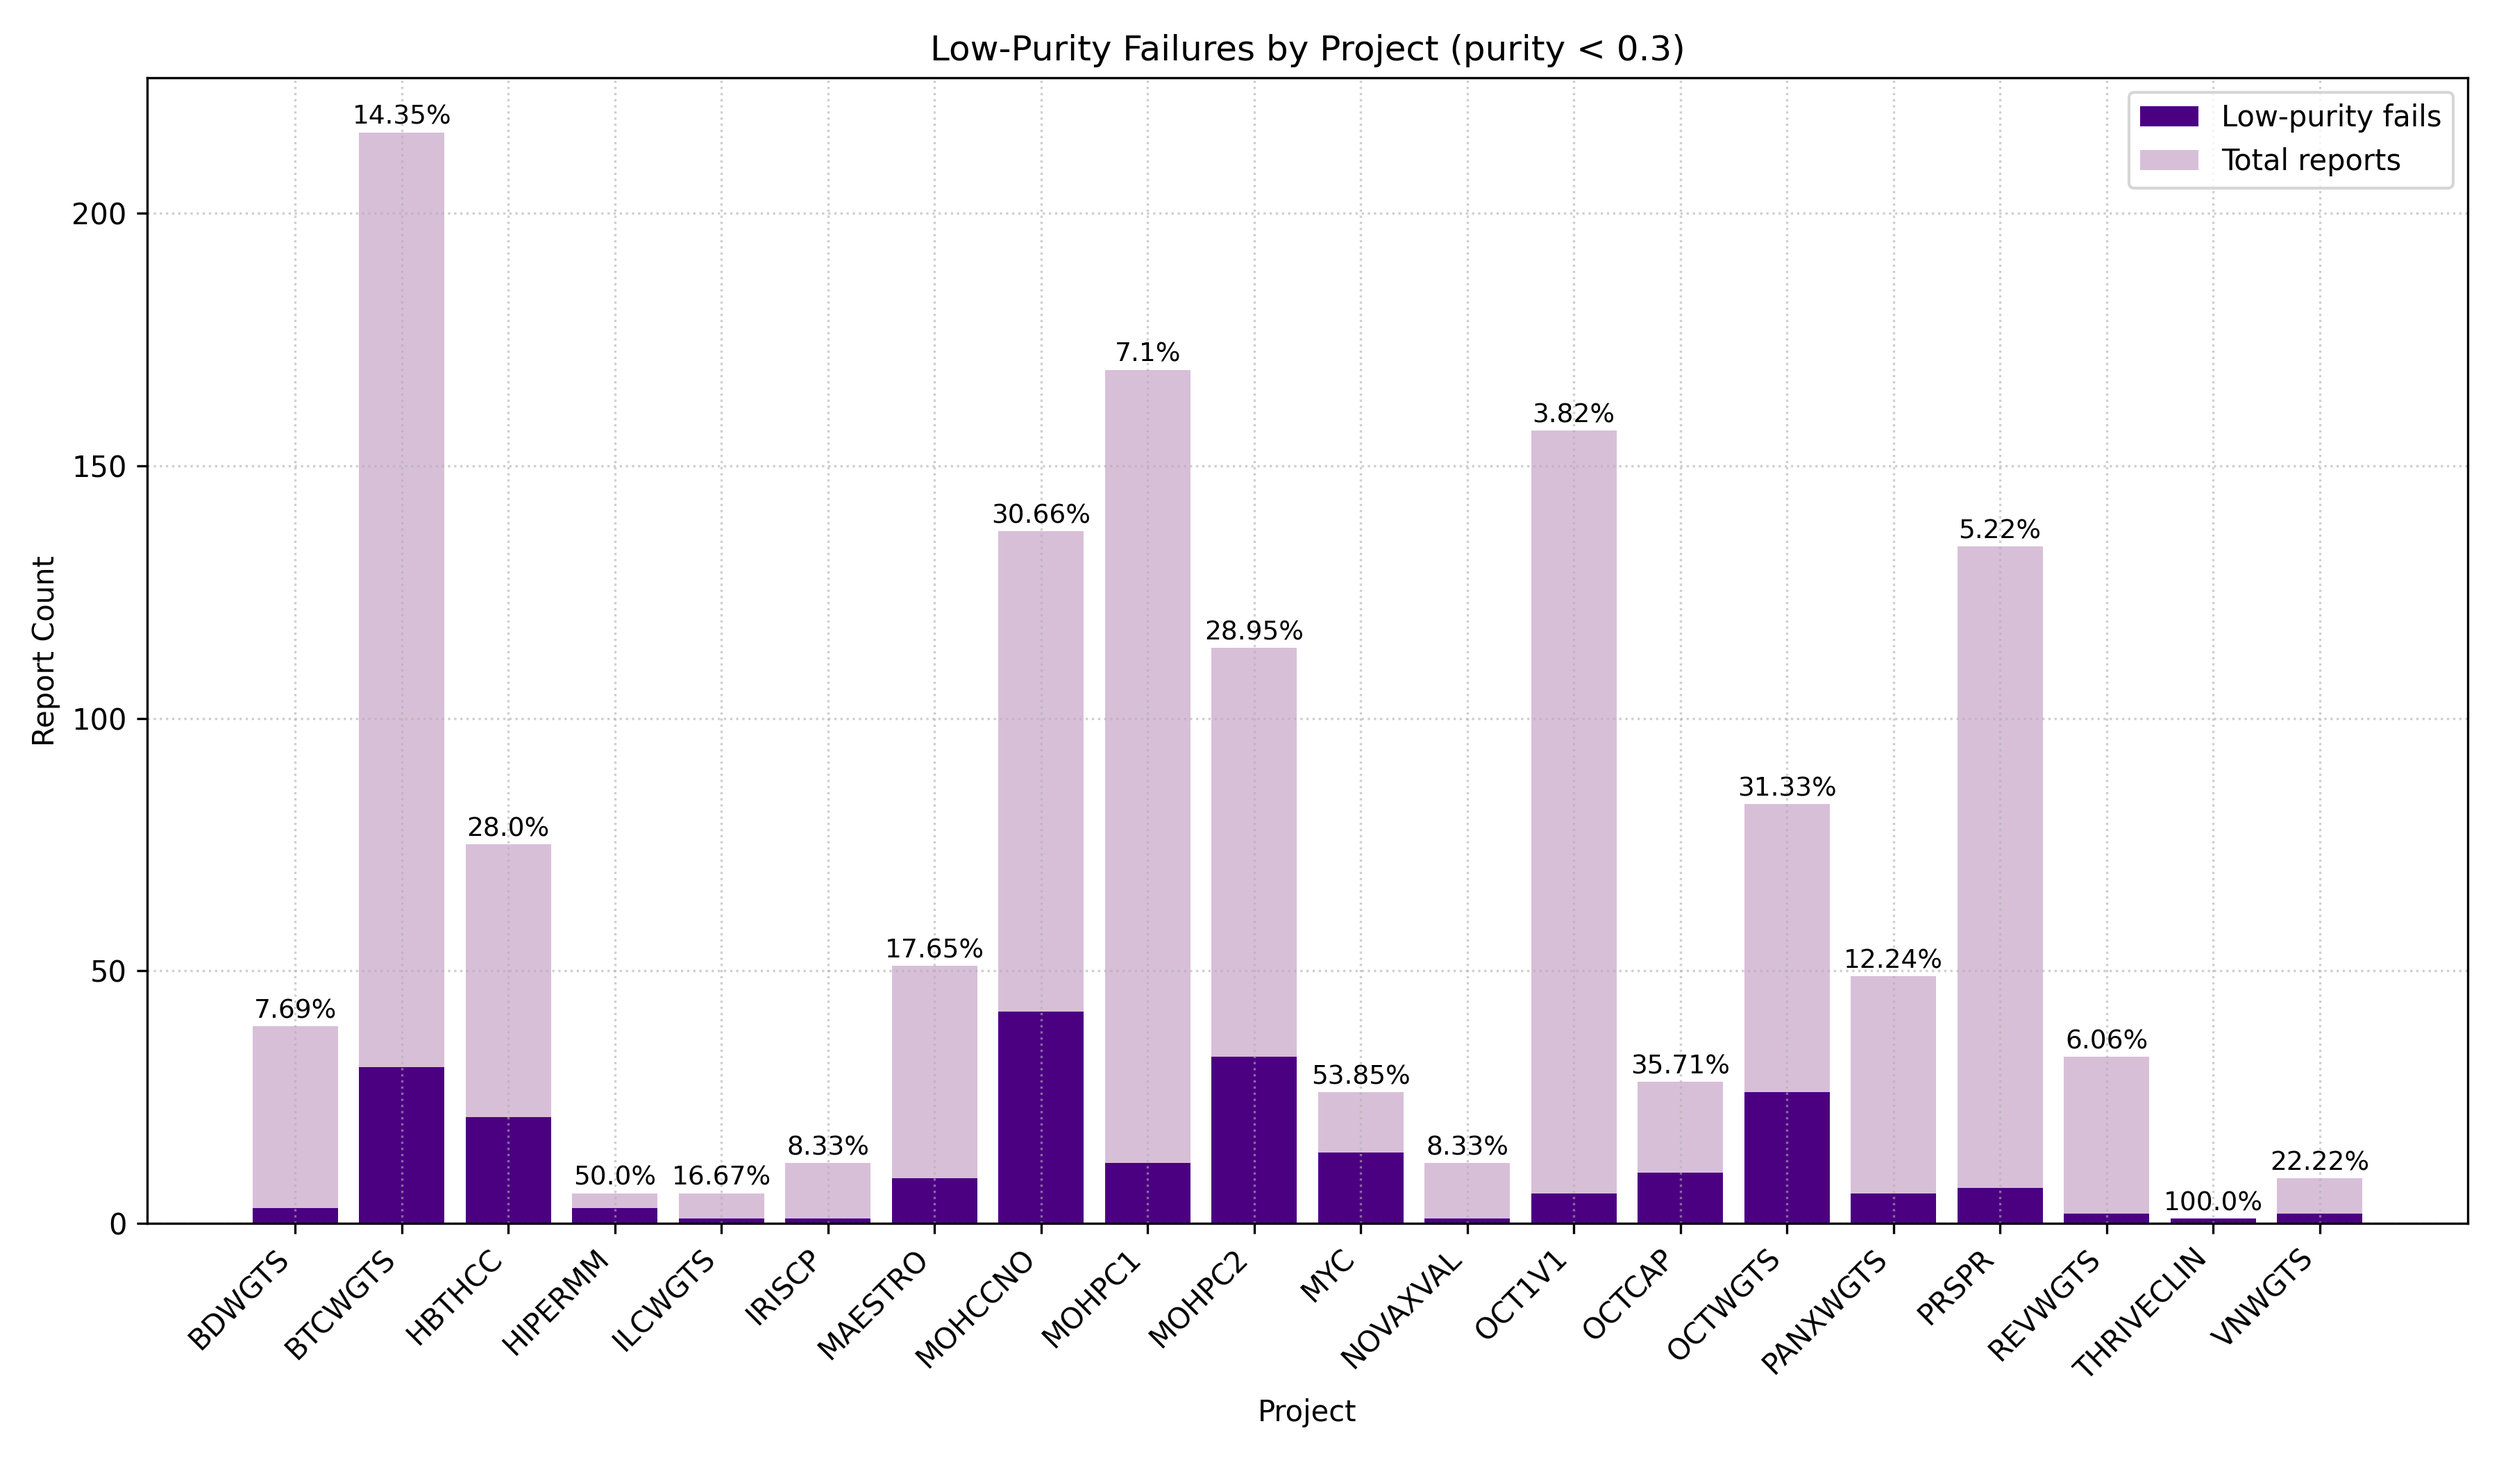
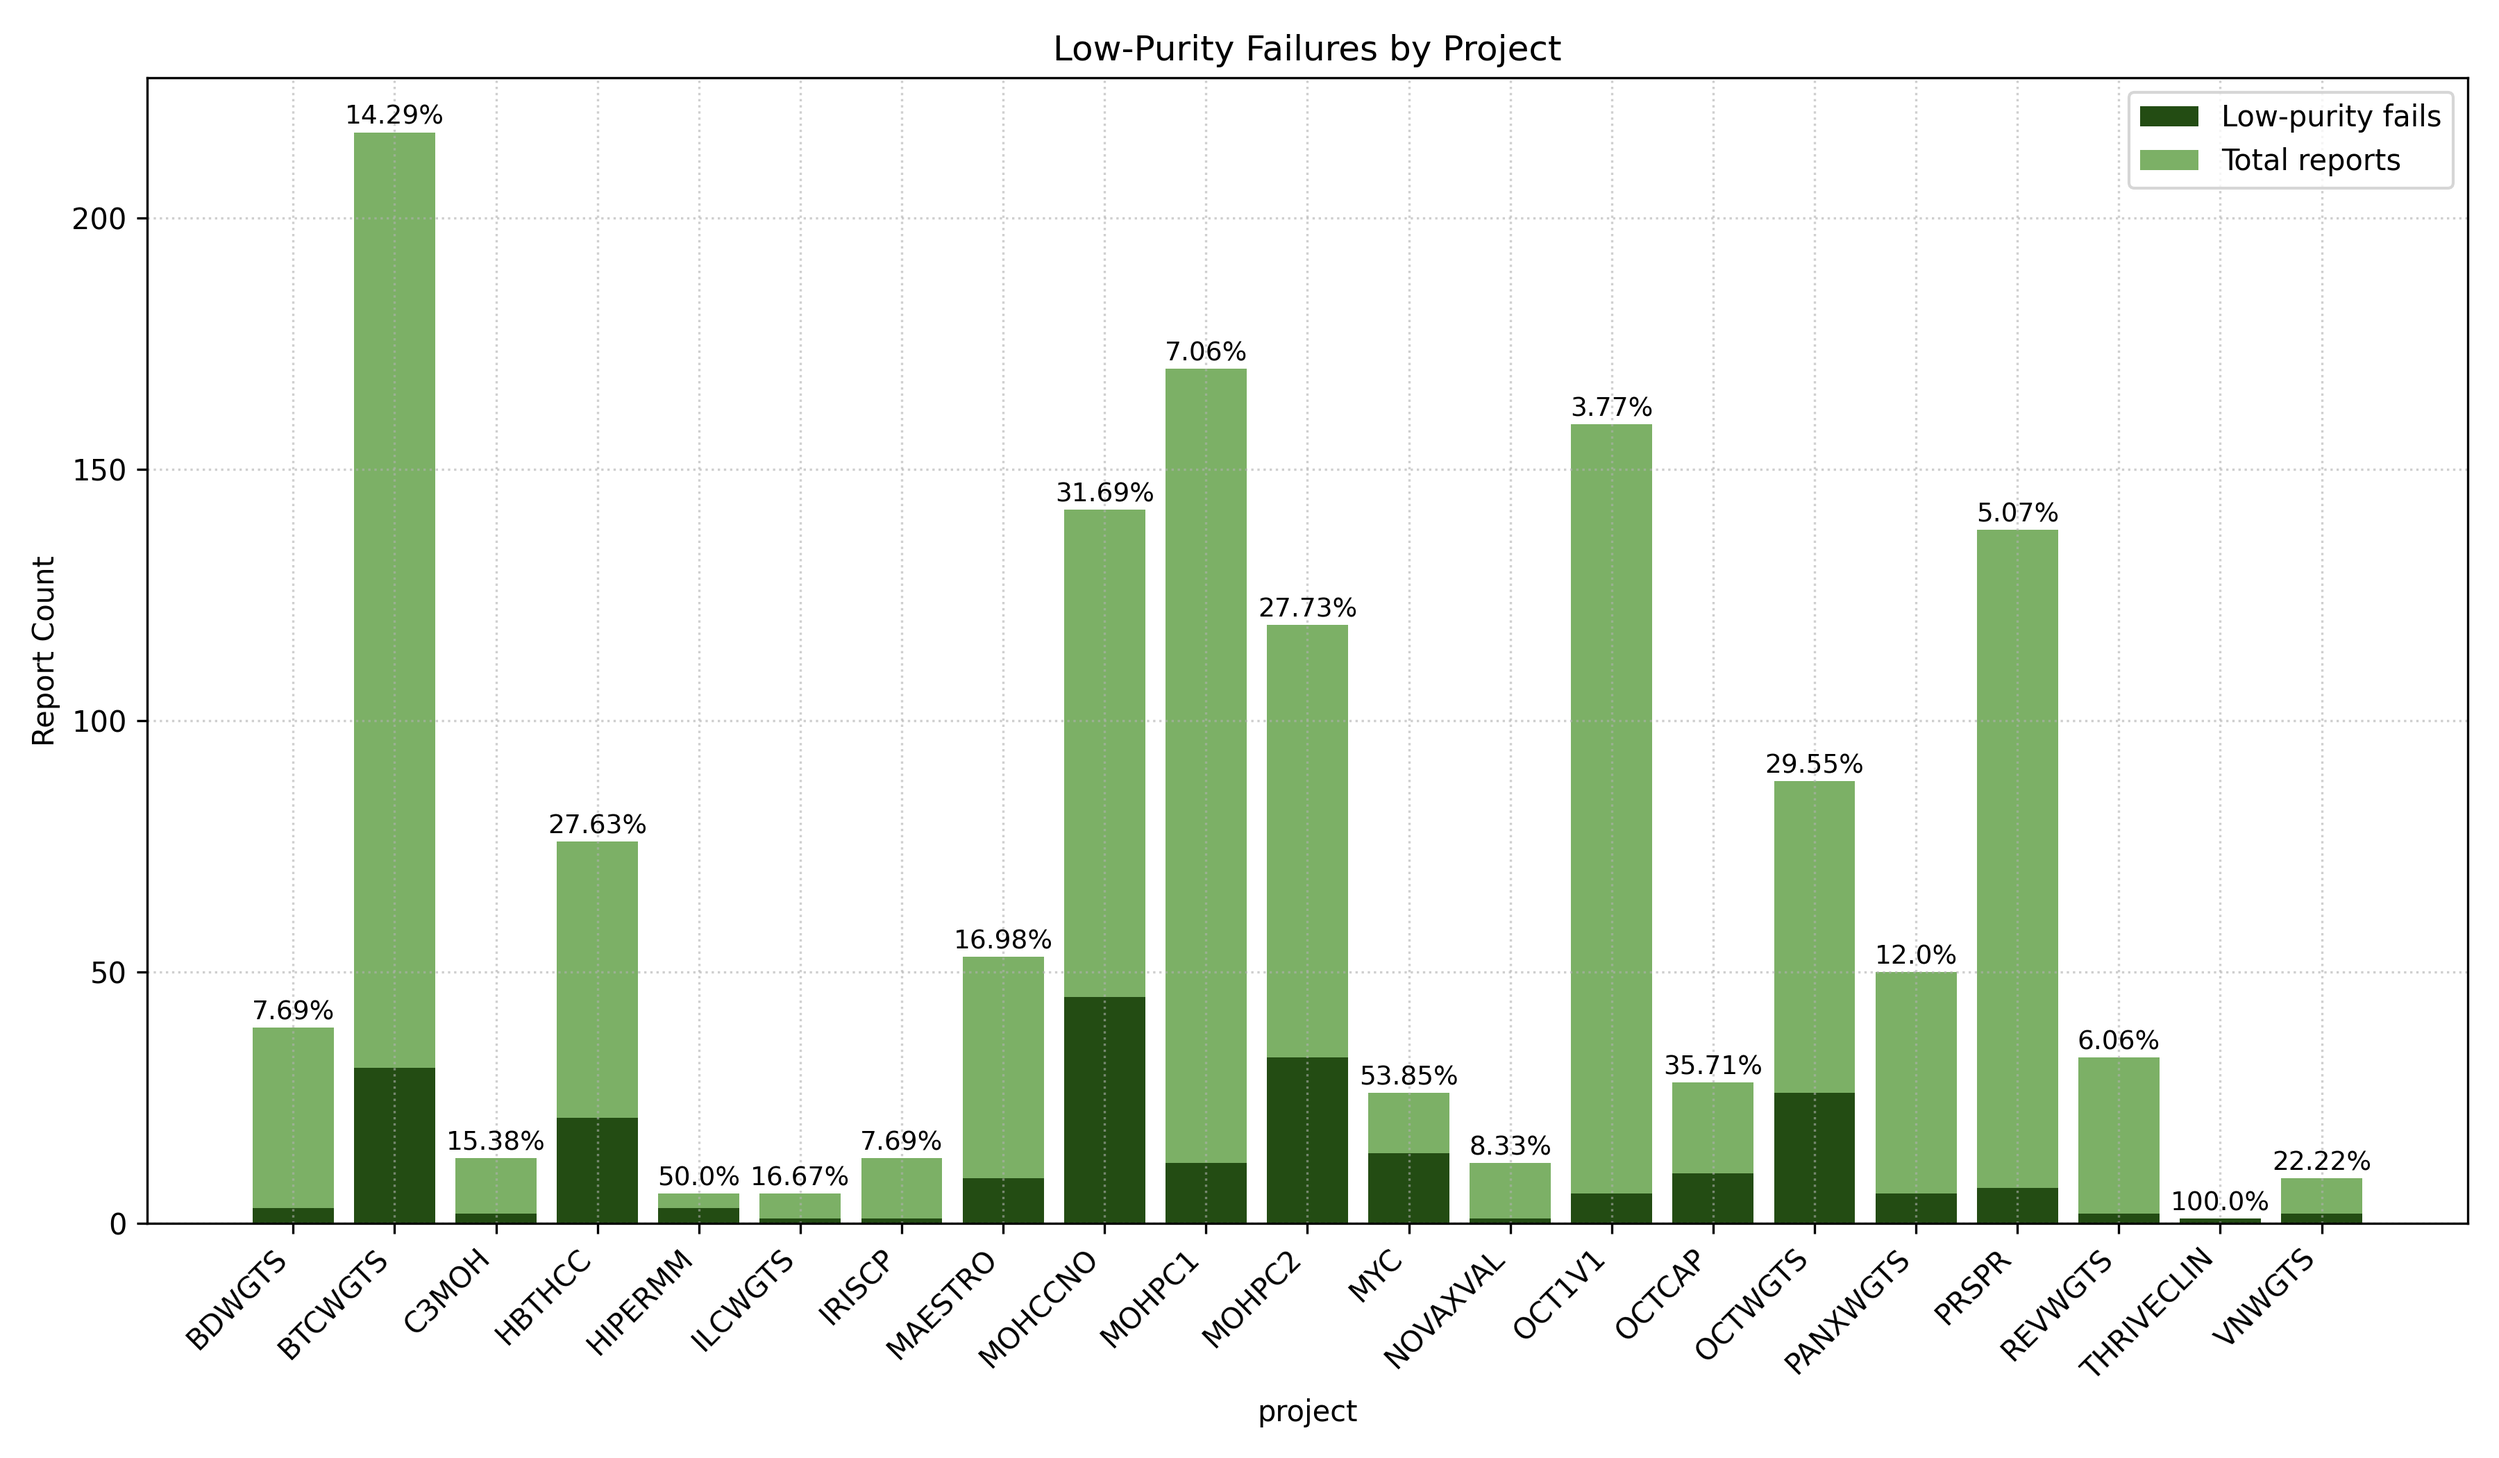
Update figure

diff --git a/4_caseStudies/low_purity/failed_by_purity.py b/4_caseStudies/low_purity/failed_by_purity.py
@@ -37,11 +37,11 @@ def main():
     merged = merged.reset_index(drop=True)
     
     plt.figure(figsize=(12,7))
-    plt.bar(merged["project"], merged["low_purity_fails"], label="Low-purity fails", color="indigo")
-    plt.bar(merged["project"], merged["other_reports"], bottom=merged["low_purity_fails"], label="Total reports", color="thistle")
+    plt.bar(merged["project"], merged["low_purity_fails"], label="Low-purity fails", color="#234c13ff")
+    plt.bar(merged["project"], merged["other_reports"], bottom=merged["low_purity_fails"], label="Total reports", color="#7cb066ff")
     plt.xlabel("project")
     plt.ylabel("Report Count")
-    plt.title("Low-Purity Failures by project (purity < 0.3)")
+    plt.title("Low-Purity Failures by Project")
     plt.xticks(rotation=45, ha="right")
     plt.grid(True, linestyle=":", alpha=0.6)
     plt.legend()
